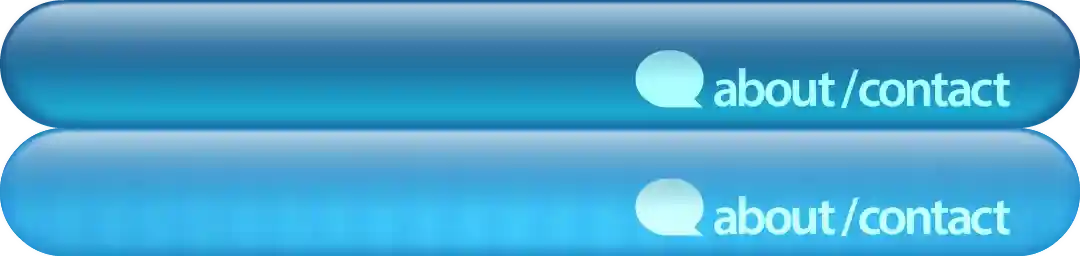
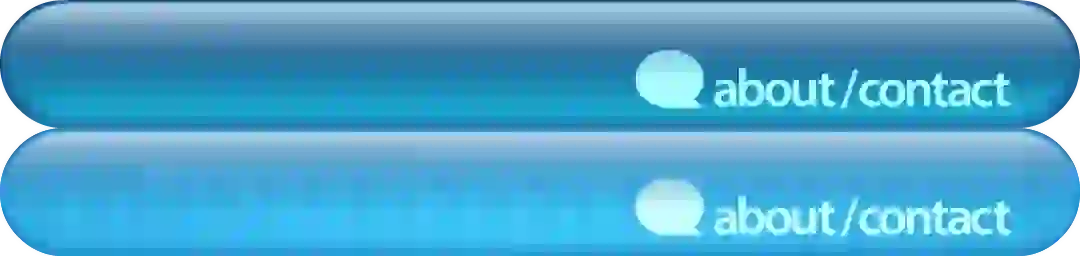
webp comp more

diff --git a/about/stylesheet.css b/about/stylesheet.css
@@ -24,7 +24,7 @@ body {
 #topbar {
 	height: 64px;
 	width: 100%;
-	background-image: url(../skeleton/topbar23.png), linear-gradient(0deg, rgba(15,42,45,1) 0%, rgba(60,127,134,1) 6%, rgba(37,98,104,1) 20%, rgba(43,69,72,1) 49%, rgba(60,105,110,1) 93%, rgba(57,104,109,1) 96%, rgba(15,42,45,1) 100%);
+	background-image: url(../skeleton/topbar23.webp), url(../skeleton/topbar23t.webp);
 	background-repeat: repeat-x;
 	background-size: 1920px 64px;
 	background-color: #2F484B;
